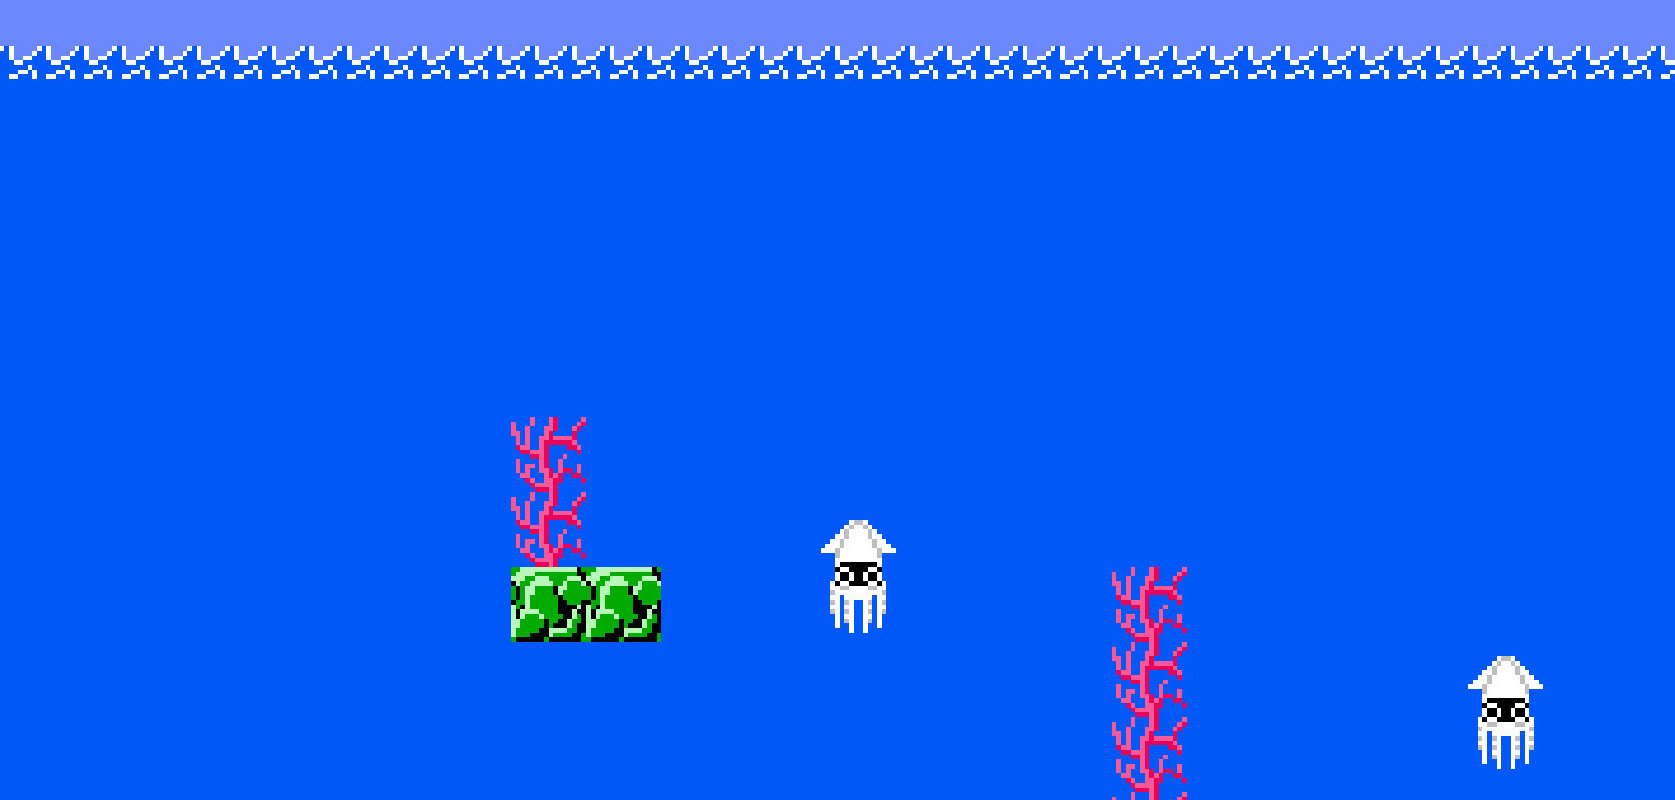
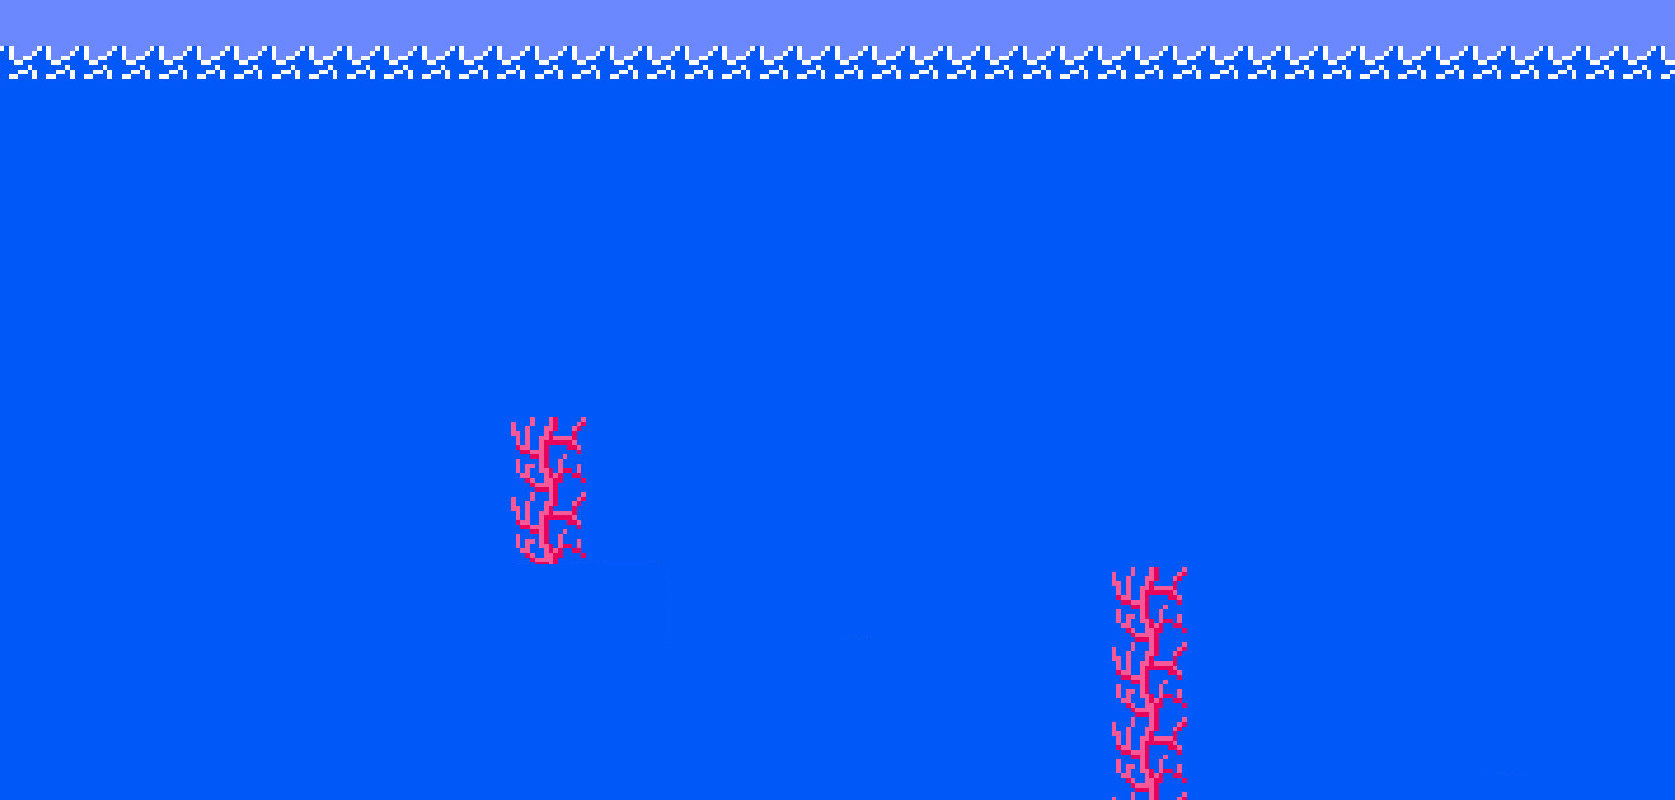
added different enemies to different levels

Changed region(s): [[0.2794, 0.6875, 0.4036, 0.8125], [0.8693, 0.8125, 0.9313, 0.9688], [0.4967, 0.6562, 0.5278, 0.7812]]

diff --git a/js/game.js b/js/game.js
@@ -64,22 +64,24 @@ Game.prototype.updatePoints = function () {
 Game.prototype.updateGame = function () {
   this.player.update();
   //randomly create new enemies and push to array 3 LEVELS
-  if(this.seconds < 10) {
+  if(this.seconds < 30) {
     if(Math.random() > 0.97) { //3% probability
       this.createEnemies();
     }
-  } else if(this.seconds < 15) {
+  } else if(this.seconds < 60) {
     document.querySelector("#canvas").classList.add("level2");
     if(Math.random() > 0.95) { //5% probability
-      this.createEnemies();
+      var speed = Math.random() *  4 + 5;
+      var y = Math.random() * canvas.height;
+      this.enemies.push(new Enemy(canvas, y, speed, "./images/level2-icon.png"));
     }
-  } else if(this.seconds > 15) {
+  } else if(this.seconds > 60) {
     document.querySelector("#canvas").classList.remove("level2");
-    document.querySelector("#canvas").classList.add("level3");    
+    document.querySelector("#canvas").classList.add("level3");
     if(Math.random() > 0.95) { //5% probability but faster enemies
-        var speed = Math.random() *  4 + 8;
+        var speed = Math.random() *  4 + 6;
         var y = Math.random() * canvas.height;
-        this.enemies.push(new Enemy(canvas, y, speed));
+        this.enemies.push(new Enemy(canvas, y, speed, "./images/level3-icon.png"));
     }
   }
   //randomly create new lifes and push to array

diff --git a/js/enemy.js b/js/enemy.js
@@ -1,7 +1,7 @@
 "use strict";
 
 //---------------------- Constructor ---------------------- 
-function Enemy (canvas, y, speed) {
+function Enemy (canvas, y, speed, img = "./images/bullet-enemy.png") {
   this.canvas = canvas;
   this.ctx = canvas.getContext('2d');
   this.x = canvas.width;
@@ -9,7 +9,7 @@ function Enemy (canvas, y, speed) {
   this.size = 50;
   this.speed =speed;
   this.enemyImage = new Image();
-  this.enemyImage.src = "./images/bullet-enemy.png";
+  this.enemyImage.src = img;
 }
  
 //---------------------- Methods ---------------------- 

diff --git a/css/styles.css b/css/styles.css
@@ -118,14 +118,15 @@ body {
   border-radius: 10%;
   border: 10px solid black;
   background-image: url("../images/gameScreen.png");
-  -webkit-animation: slide 10s linear infinite;
+  -webkit-animation: slide 15s linear infinite;
 }
 #canvas.level2 {
   background-image: url("../images/level2.jpg");
+  -webkit-animation: slide 10s linear infinite;
 }
 #canvas.level3 {
+  -webkit-animation: slide 8s linear infinite;
   background-image: url("../images/level3.jpeg");
-  
 }
 @-webkit-keyframes slide {
   from { background-position: 0 0; }
